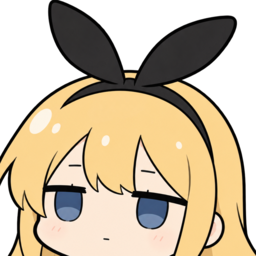
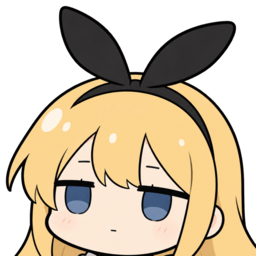
fix(desktop): hide the pet by default and keep it out of the app corner
- default the desktop companion to hidden; the application menu and the tray's Pet submenu show it on demand
- ignore the legacy (0,0) companion position and re-apply the intended position after a hidden-at-startup pet is mapped
- opt the isolated companion preview smoke into the pet explicitly
- recenter the application-menu avatar on the full head

diff --git a/apps/desktop/src/companion.ts b/apps/desktop/src/companion.ts
@@ -55,14 +55,22 @@ export function createCompanion(owner: BrowserWindow): CompanionHandle | undefin
     : resolve(here, '../../ui/public/companion')
   const statePath = join(app.getPath('userData'), 'companion.json')
   let size = 220
-  let enabled = true
+  // The desktop pet is opt-in: a fresh profile starts with the companion
+  // hidden so it cannot cover the app window. The bottom-left application
+  // menu and the tray's Pet submenu show it on demand.
+  let enabled = false
   let saved: Partial<Rect> = {}
   let savedOffset = { x: 0, y: 0 }
   try {
     const value = JSON.parse(readFileSync(statePath, 'utf8'))
     if ([170, 220, 280].includes(value.size)) size = value.size
     if (typeof value.enabled === 'boolean') enabled = value.enabled
-    if (Number.isFinite(value.x) && Number.isFinite(value.y)) saved = { x: value.x, y: value.y }
+    // Older builds persisted the X11 origin before the first post-map
+    // placement, which parks the pet over the app window's top-left corner.
+    // Treat (0,0) as "no saved position" and fall back to the bottom-right.
+    if (Number.isFinite(value.x) && Number.isFinite(value.y) && (value.x !== 0 || value.y !== 0)) {
+      saved = { x: value.x, y: value.y }
+    }
     if (Number.isFinite(value.offsetX) && Number.isFinite(value.offsetY)) savedOffset = { x: value.offsetX, y: value.offsetY }
   } catch { /* First launch or damaged launcher preference: use defaults. */ }
   const area = screen.getDisplayMatching(owner.getBounds()).workArea
@@ -90,6 +98,10 @@ export function createCompanion(owner: BrowserWindow): CompanionHandle | undefin
   }
   const initialArea = screen.getDisplayMatching(visibleRect(initialVirtual)).workArea
   const settled = settleCompanion(initialVirtual, initialArea, false, insets)
+  // The position the pet should occupy after the window is mapped. Mutter
+  // ignores constructor bounds for a newly mapped window, so both the ready
+  // handler and the hidden-at-startup toggle path re-apply this position.
+  let intended = { x: settled.x, y: settled.y, area: initialArea }
   // Some WMs clamp a window's left/top edge to the screen. Keep the native
   // window inside the work area and translate the character inside it, so the
   // visible pet can still reach the left and top edges.
@@ -175,6 +187,7 @@ export function createCompanion(owner: BrowserWindow): CompanionHandle | undefin
     const currentVirtual = { ...current, x: current.x + visualOffset.x, y: current.y + visualOffset.y }
     const targetArea = screen.getDisplayMatching(visibleRect(currentVirtual)).workArea
     const next = settleCompanion(currentVirtual, targetArea, snap, visualInsets(current.width, current.height))
+    intended = { x: next.x, y: next.y, area: targetArea }
     flipped = next.flipped
     pet.webContents.send('openalice:companion:flip', flipped)
     if (!snap || reducedMotion) { moveVirtual(next.x, next.y, targetArea); save(); return }
@@ -189,11 +202,29 @@ export function createCompanion(owner: BrowserWindow): CompanionHandle | undefin
       if (progress === 1) { stopSnap(); moveVirtual(next.x, next.y, targetArea); save() }
     }, 16)
   }
+  // Mutter ignores constructor bounds for a newly mapped window. Both show
+  // paths (first launch and the hidden-at-startup toggle) re-apply the
+  // intended position once the window is mapped.
+  const reapplyIntended = () => {
+    if (!enabled || drag || pet.isDestroyed()) return
+    moveVirtual(intended.x, intended.y, intended.area)
+    save()
+  }
   const open = () => { if (!owner.isDestroyed()) { if (owner.isMinimized()) owner.restore(); owner.show(); owner.focus() } }
   const toggle = () => {
     if (pet.isDestroyed()) return
     enabled = !enabled
-    if (enabled && ready) { settle(false); pet.showInactive() } else pet.hide()
+    if (enabled && ready) {
+      // Use the last intended position rather than the current hidden-window
+      // bounds: Mutter may have parked the unmapped window at the origin.
+      moveVirtual(intended.x, intended.y, intended.area)
+      pet.showInactive()
+      // A pet that starts hidden (the default) never runs the ready handler's
+      // post-map move. Mutter places the newly mapped window on the active
+      // monitor and ignores the constructor bounds, so re-apply the intended
+      // position once it is mapped or the pet lands over the app window.
+      setTimeout(reapplyIntended, 150)
+    } else pet.hide()
     save()
     if (!owner.isDestroyed()) owner.webContents.send('openalice:companion:visibility', enabled)
   }
@@ -286,11 +317,7 @@ export function createCompanion(owner: BrowserWindow): CompanionHandle | undefin
     // Mutter places a newly mapped window on the active monitor and ignores
     // the bounds passed to the constructor. A post-map move is honored, so
     // re-apply the intended virtual position once the window is visible.
-    setTimeout(() => {
-      if (!enabled || drag || pet.isDestroyed()) return
-      moveVirtual(settled.x, settled.y, initialArea)
-      save()
-    }, 150)
+    setTimeout(reapplyIntended, 150)
   })
   listen('reduced-motion', value => { if (typeof value === 'boolean') reducedMotion = value })
   listen('interactive', value => { if (typeof value === 'boolean') pet.setIgnoreMouseEvents(drag ? false : !value, { forward: true }) })

diff --git a/apps/desktop/src/companion-preview.ts b/apps/desktop/src/companion-preview.ts
@@ -8,6 +8,9 @@ import { createCompanion, resizeCompanionWindow, setCompanionBounds } from './co
 
 const home = mkdtempSync(join(tmpdir(), 'openalice-companion-'))
 app.setPath('userData', home)
+// The desktop pet is opt-in for users; this isolated acceptance run explicitly
+// enables it so the native show path stays covered.
+writeFileSync(join(home, 'companion.json'), JSON.stringify({ enabled: true }))
 app.on('window-all-closed', () => app.quit())
 void app.whenReady().then(async () => {
   const owner = new BrowserWindow({ show: false, width: 900, height: 700 })

diff --git a/PITFALLS.md b/PITFALLS.md
@@ -283,7 +283,7 @@ session. Call `app.disableHardwareAcceleration()` on Linux before
 
 The Quick Start header no longer renders the `aliceWave` hero image, and the
 bottom-left application-menu avatar now uses `ui/src/assets/alice-pet-avatar.png`
-(a 256x256 crop of the same pet image).
+(a 256x256 centered head crop of the same pet image, bow and chin included).
 
 For Fedora, the `rpm` target is the native install path; it needs `rpmbuild`
 (`sudo dnf install rpm-build`). The built RPM
@@ -331,8 +331,15 @@ Two multi-monitor details matter:
   left edge of a secondary display restores on the primary.
 - Mutter places a newly mapped window on the active monitor and ignores the
   constructor bounds. The `ready` handler shows the pet, then re-applies the
-  intended virtual position 150ms later with `moveVirtual`; without it a fresh
-  profile's pet lands at the primary work-area origin.
+  intended virtual position 150ms later with `moveVirtual`; the toggle path
+  does the same because a pet that starts hidden never runs the ready
+  handler's move. Without either move a fresh profile's pet lands at the
+  primary work-area origin and covers the app window.
+- The companion is opt-in: `enabled` defaults to false, so a fresh profile
+  starts without a desktop pet. The bottom-left application menu and the
+  tray's Pet submenu show it on demand. A persisted `(0,0)` position is the
+  legacy pre-placement origin, not a user drag; treat it as "no saved
+  position" and restore the default bottom-right corner.
 
 The unit tests in `apps/desktop/src/companion-geometry.spec.ts` cover the
 portrait-screen edges: the visible left/top/right/bottom reach the work-area
